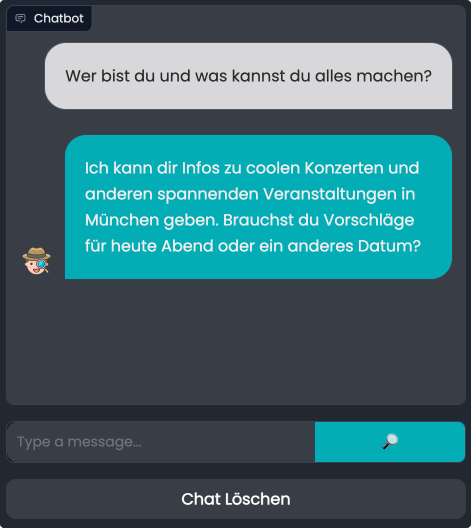
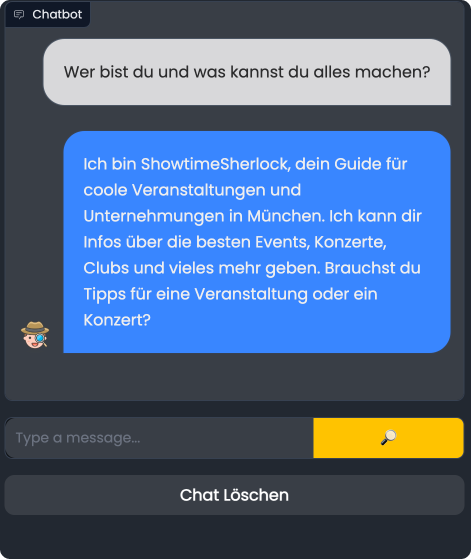
changed colors

diff --git a/sts/src/App.css b/sts/src/App.css
@@ -32,7 +32,7 @@ a.aboutus, a.history {
 }
 
 a.aboutus:hover, a.history:hover {
-  color: #3A86FFFF;
+  color: #FFC300;
   transition: color ease 0.7s;
 }
 
@@ -41,14 +41,9 @@ a.test {
   text-decoration: none;
 }
 
-a.test:hover {
-  color: #3A86FFFF;
-  transition: cololor ease 0.7s;
-}
-
 #testbutton:hover {
-  background-color: #EEEEEE;
-  transition: background-color ease 0.7s;
+  background-color: #3A86FFFF;
+  transition: background-color ease-out 0.3s;
 }
 
 #about, #history, #test {
@@ -57,7 +52,7 @@ a.test:hover {
 }
 
 #testbutton {
-  background-color: #3A86FFFF;
+  background-color: #FFC300;
   color: #EEEEEE;
   font-family: "Nunito", sans-serif;
   font-size: 24px;
@@ -98,7 +93,7 @@ h2.subtitle {
 }
 
 #testnow {
-  background-color: #3A86FFFF;
+  background-color: #FFC300;
   width: 240px;
   height: 85px;
   border: none;
@@ -113,14 +108,9 @@ a.testnow {
   color: #EEEEEE;
 }
 
-a.testnow:hover {
-  color: #3A86FFFF;
-  transition: color ease 2s;
-}
-
 #testnow:hover {
-  background-color: #EEEEEE;
-  transition: background-color ease 2s;
+  background-color: #3A86FFFF;
+  transition: background-color ease-out 0.3s;
 }
 
 #chatbotimg {
